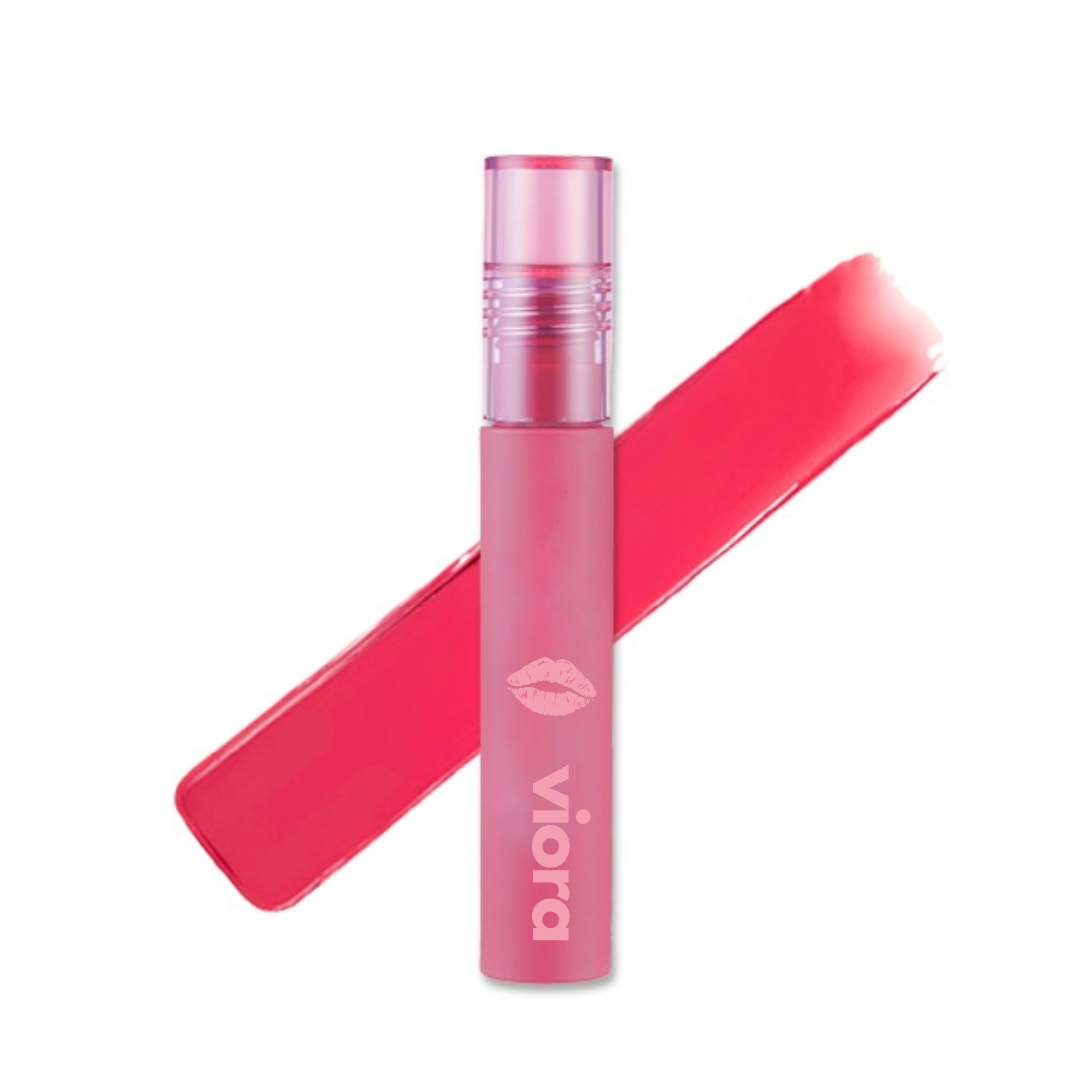
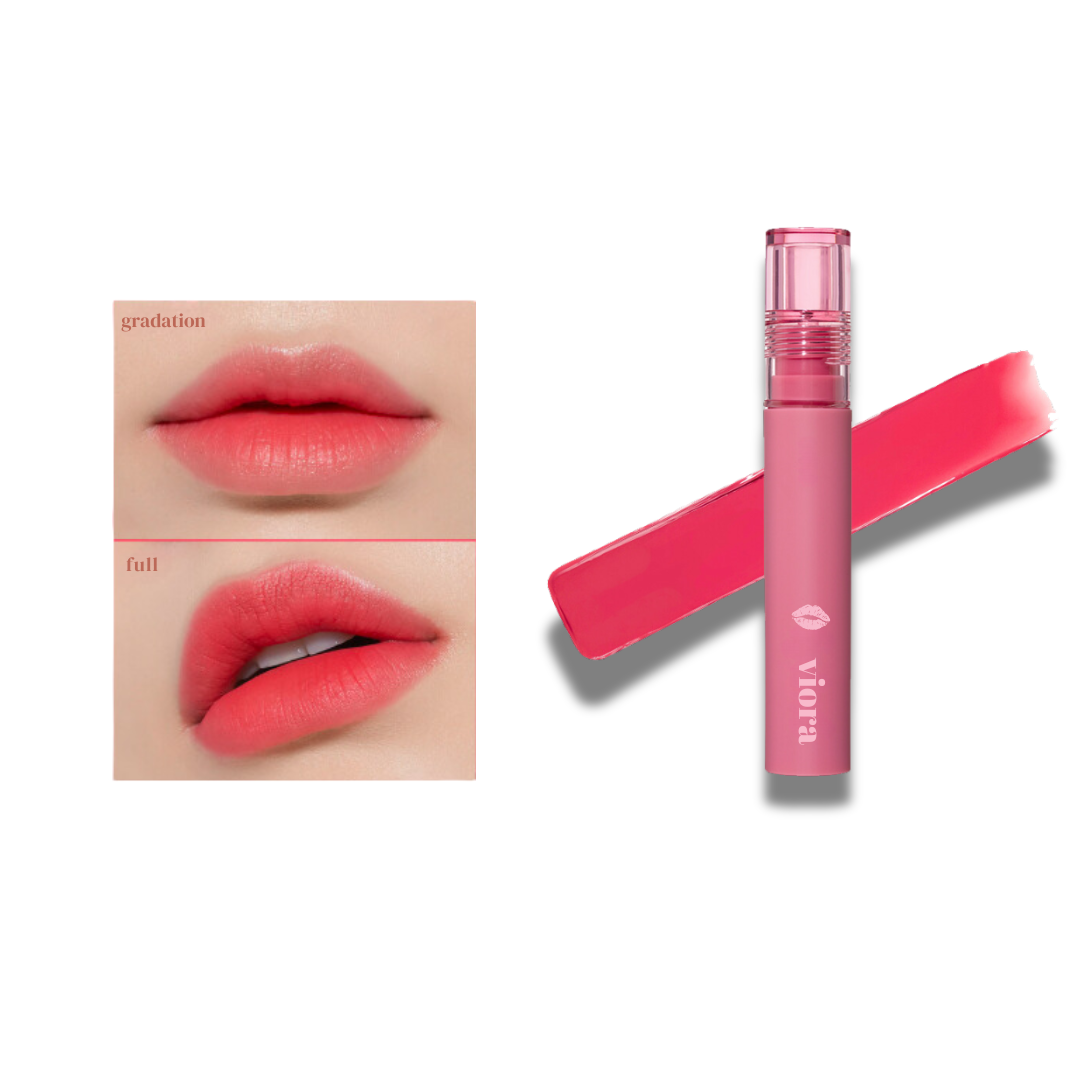
modifications

diff --git a/src/ProductDetails.jsx b/src/ProductDetails.jsx
@@ -4,6 +4,7 @@ import './ProductDetails.css';
 import { toast, ToastContainer } from "react-toastify";
 import "react-toastify/dist/ReactToastify.css";
 
+//matte liptint insertion
 import matteLipTintCherry from '@/assets/MatteLipTint/Cherry.png';
 import matteLipTintJane from '@/assets/MatteLipTint/Jane.png';
 import matteLipTintJanelle from '@/assets/MatteLipTint/Jannelle.png';
@@ -15,6 +16,7 @@ import matteLipTintMeberlene from '@/assets/MatteLipTint/Meberlene.png';
 import matteLipTintNiña from '@/assets/MatteLipTint/Niña.png';
 import matteLipTintVaughn from '@/assets/MatteLipTint/Vaughn.png';
 
+//lip tint insertion
 import Aphrodite from '@/assets/LipTint/Aphrodite.png';
 import Artemis from '@/assets/LipTint/Artemis.png';
 import Astraea from '@/assets/LipTint/Astraea.png';
@@ -23,6 +25,7 @@ import Calypso from '@/assets/LipTint/Calypso.png';
 import Demeter from '@/assets/LipTint/Demeter.png';
 import Psyche from '@/assets/LipTint/Psyche.png';
 
+//gloss insertion
 import Clueless from '@/assets/LipGloss/Clueless.png';
 import Euphoria from '@/assets/LipGloss/Euphoria.png';
 import FaerieSoiree from '@/assets/LipGloss/FaerieSoiree.png';
@@ -415,22 +418,56 @@ const ProductDetails = () => {
         <div className="flex flex-wrap -mx-4">
           {/* Left Column - Images */}
           <div className="w-full md:w-1/2 px-4 mb-8">
-            <div className="flex flex-col h-full">
-              <img
-                src={selectedImage.src}
-                alt={selectedImage.alt}
-                className="w-4/5 mx-auto h-auto object-cover rounded-lg shadow-sm"
-                id="mainImage"
-              />
-              <div className="thumbnail-container mt-4 w-4/5 mx-auto">
+            <div className="flex flex-col h-full space-y-6">
+              {/* Main Image Container */}
+              <div className="flex justify-center">
+                <div className="w-4/5 relative bg-transparent rounded-xl p-6 transition-transform">
+                  <div className="aspect-square overflow-hidden rounded-lg">
+                    <img
+                      src={selectedImage.src}
+                      alt={selectedImage.alt}
+                      className="w-full h-full object-contain transform hover:scale-105 transition-transform duration-300"
+                      id="mainImage"
+                    />
+                  </div>
+                </div>
+              </div>
+            
+
+              {/* Thumbnails */}
+              <div className="flex justify-center gap-3 w-4/5 mx-auto overflow-x-auto py-4 px-2">
                 {product.images.map((image) => (
-                  <img
+                  <div
                     key={image.id}
-                    src={image.src}
-                    alt={image.alt}
-                    className={`thumbnail ${selectedImage.id === image.id ? 'opacity-100' : 'opacity-60'}`}
                     onClick={() => changeImage(image, product)}
-                  />
+                    className={`
+                      cursor-pointer 
+                      flex-shrink-0 
+                      w-16 h-16 
+                      rounded-lg 
+                      overflow-hidden 
+                      transition-all 
+                      duration-200
+                      ${
+                        selectedImage.id === image.id 
+                          ? 'ring-2 ring-pink-500 ring-offset-2 shadow-lg transform scale-105' 
+                          : 'hover:ring-2 hover:ring-pink-300 hover:ring-offset-1'
+                      }
+                    `}
+                  >
+                    <img
+                      src={image.src}
+                      alt={image.alt}
+                      className={`
+                        w-full 
+                        h-full 
+                        object-cover 
+                        transition-opacity 
+                        duration-200
+                        ${selectedImage.id === image.id ? 'opacity-100' : 'opacity-75 hover:opacity-100'}
+                      `}
+                    />
+                  </div>
                 ))}
               </div>
             </div>

diff --git a/src/Products.jsx b/src/Products.jsx
@@ -6,6 +6,8 @@ import { Link, useNavigate } from 'react-router-dom';
 import prod1 from '@/assets/prod1.png';
 import prod2 from '@/assets/prod3.png';
 import prod3 from '@/assets/prod2.png';
+//cover page insertion
+import coverPage from '@/assets/LipTint/coverpage.png';
 
 const products = [
   {
@@ -19,7 +21,7 @@ const products = [
     id: 3,
     name: "Lip Tint",
     price: 130,
-    src: prod3,
+    src: coverPage,
     alt: "Lip Tint Product Image"
   },
   {
